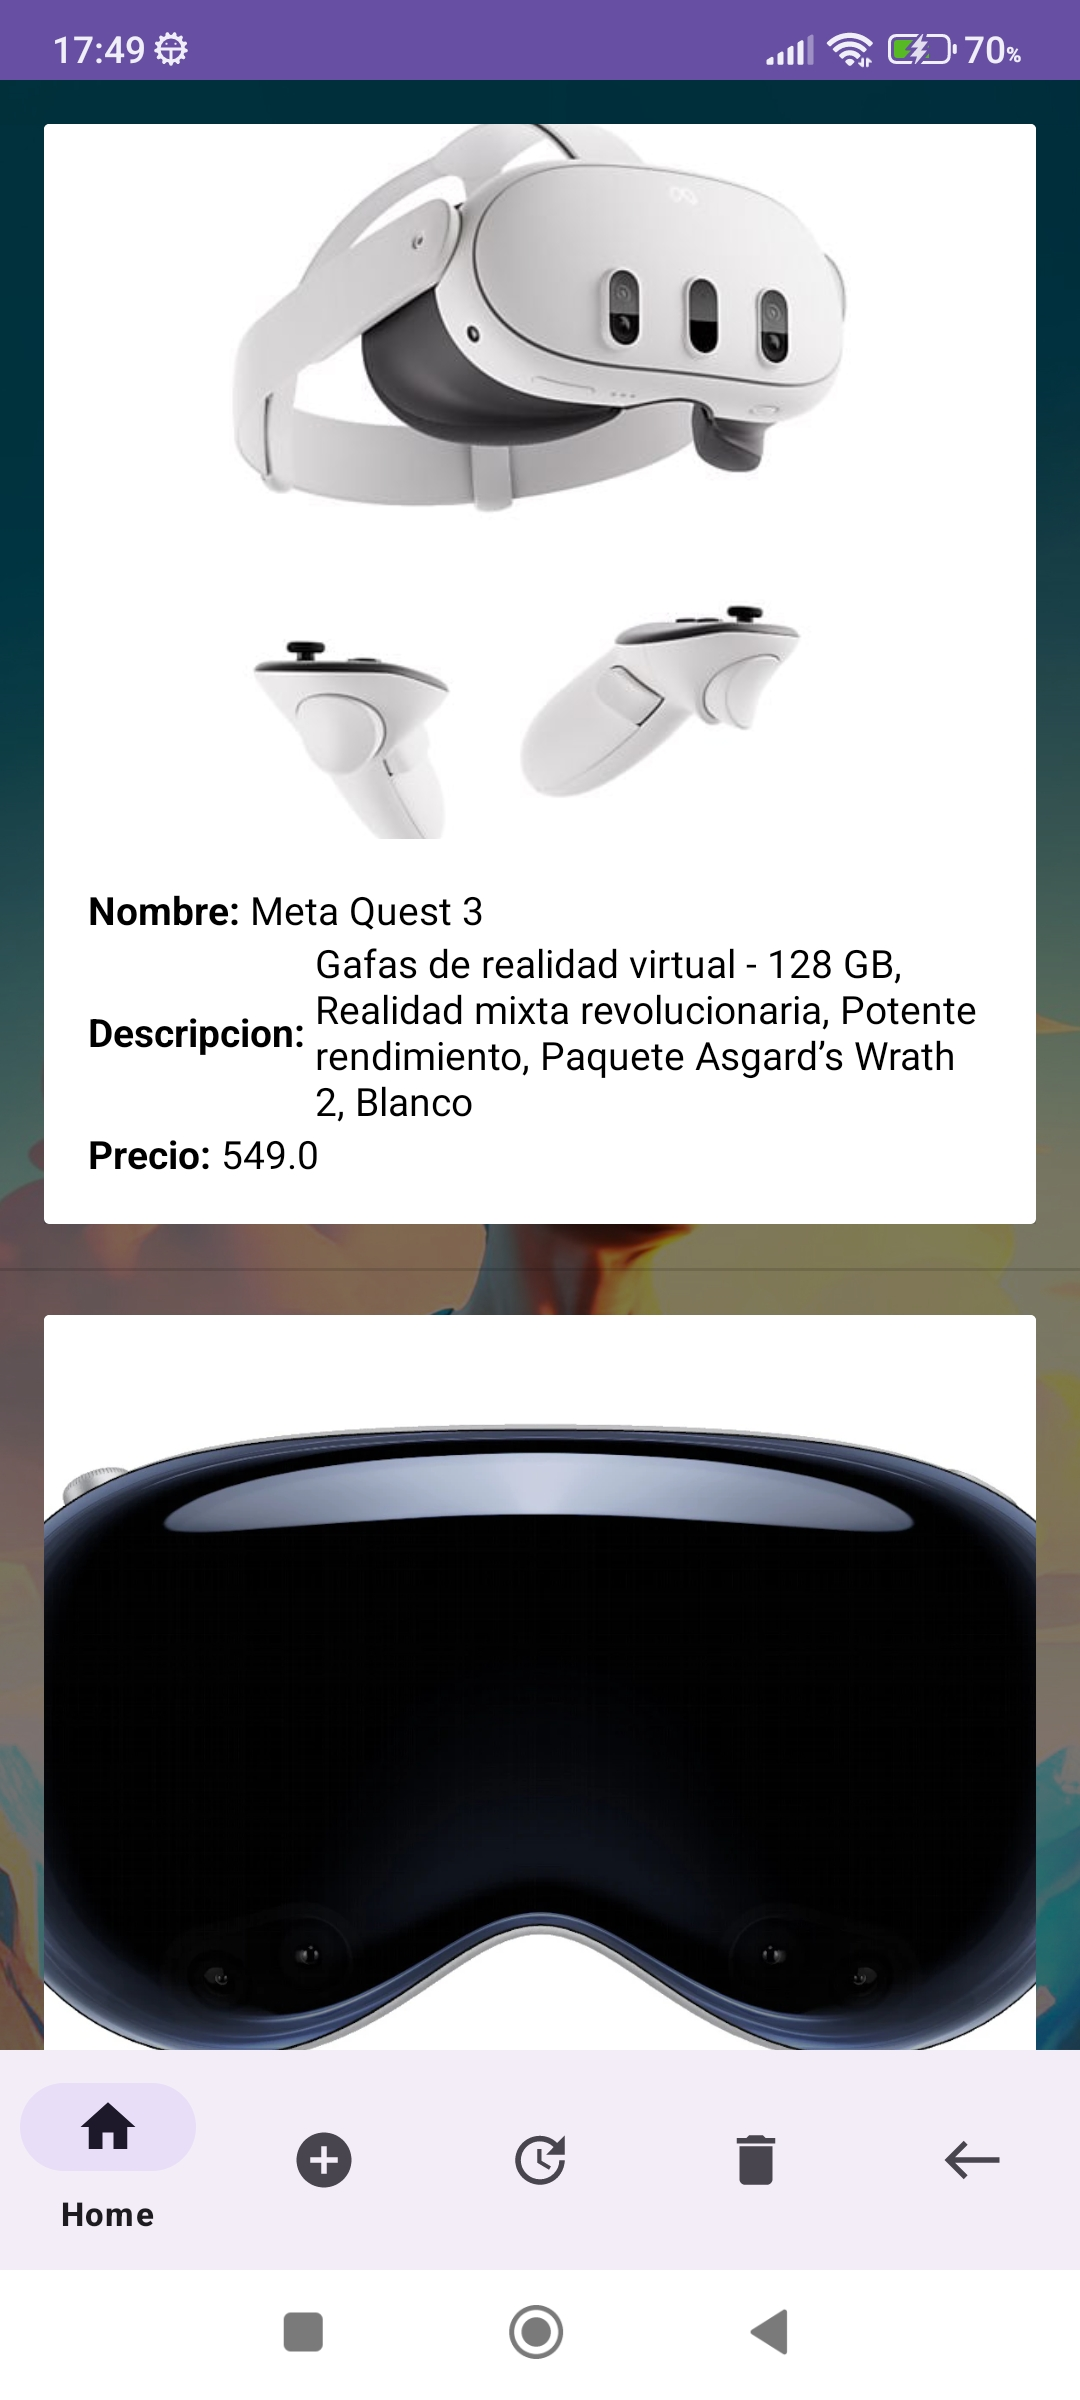
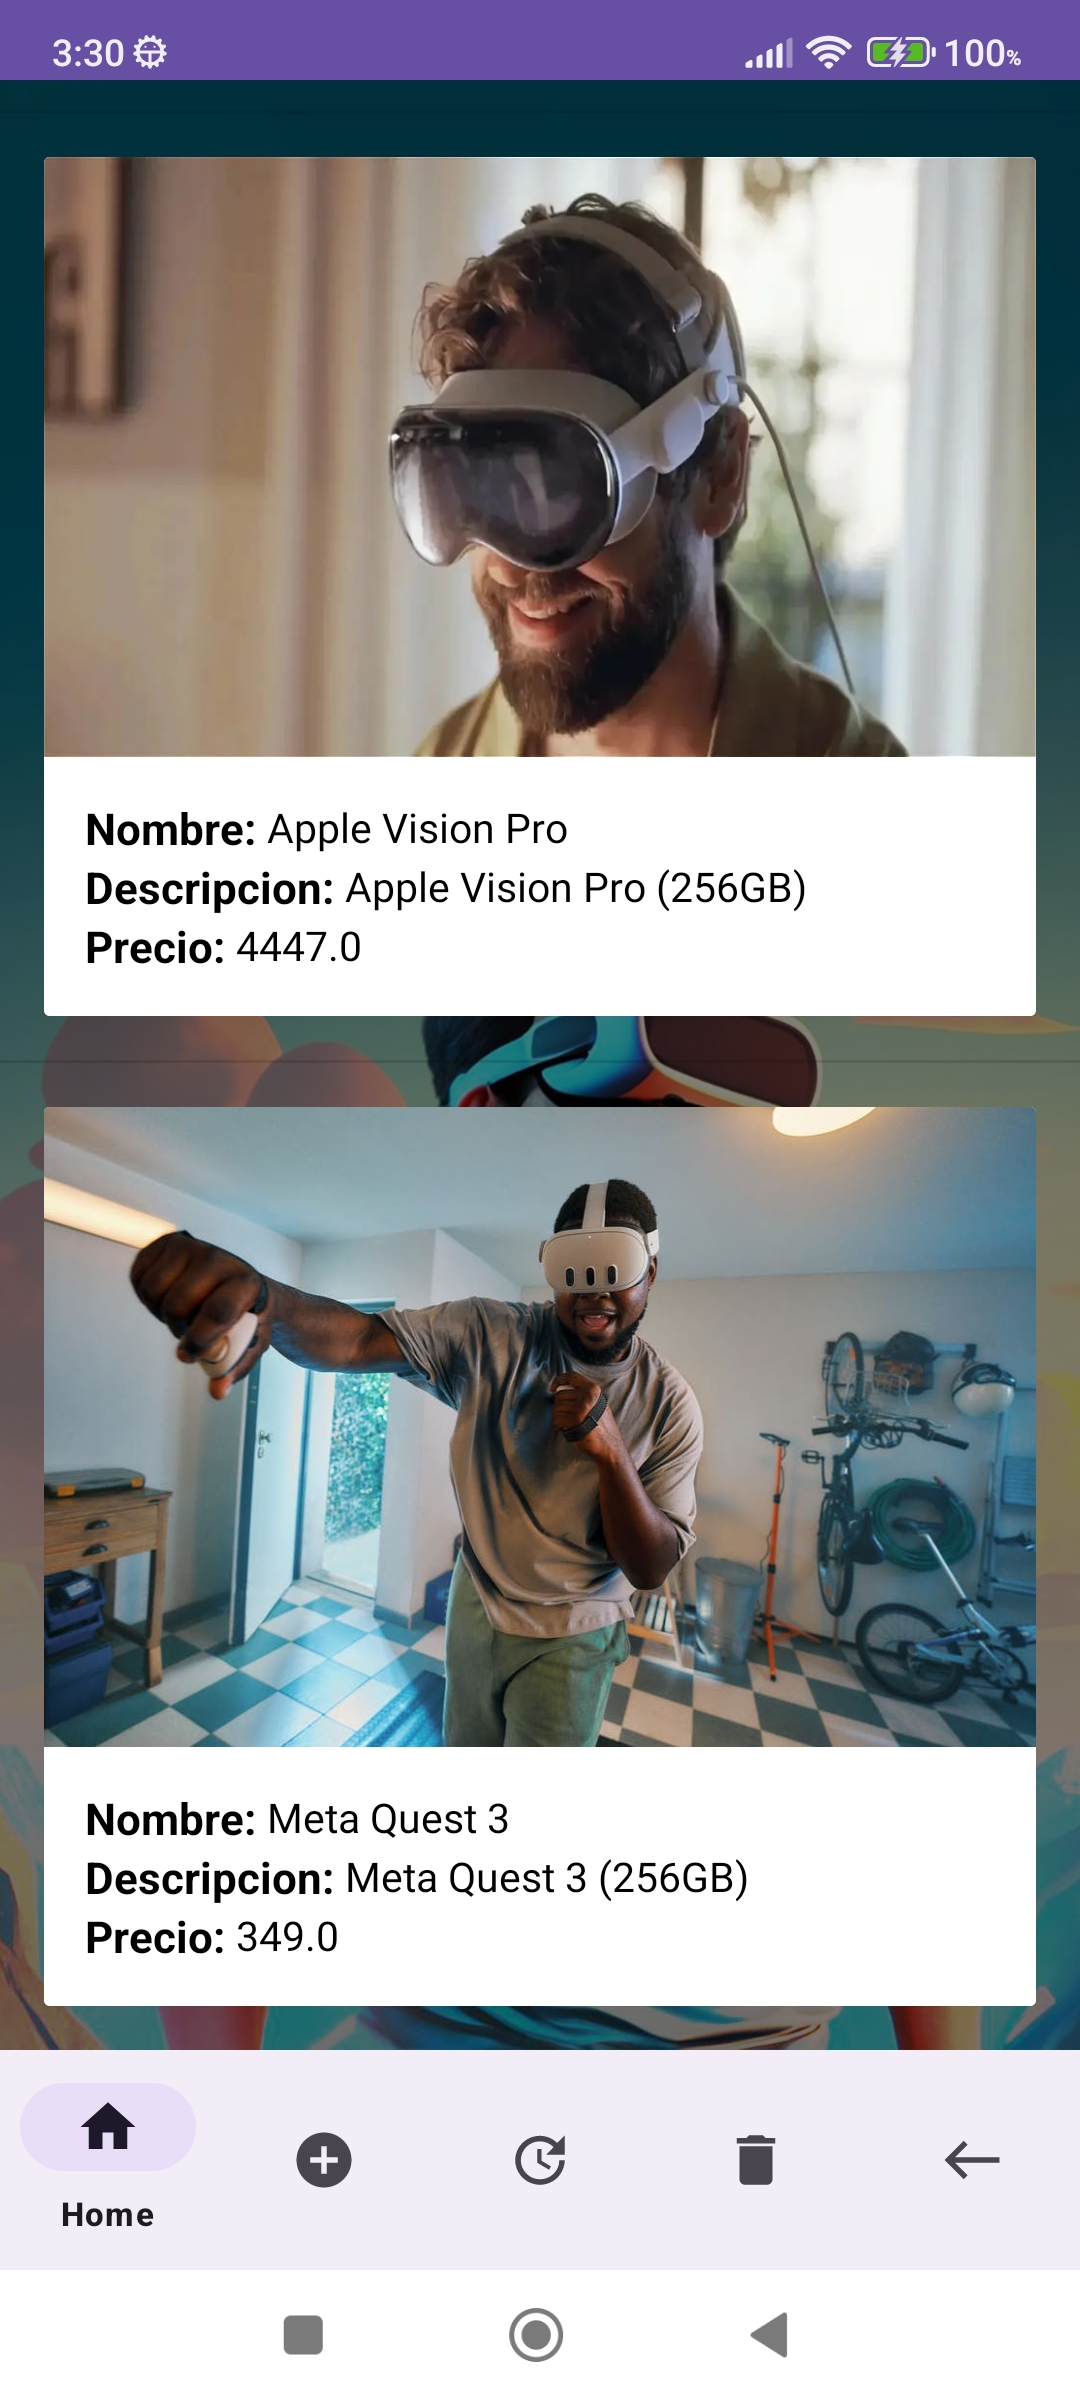
update 3.1

diff --git a/ApiRestRaptureAR/src/main/java/com/app/arrapture/controller/ProductController.java b/ApiRestRaptureAR/src/main/java/com/app/arrapture/controller/ProductController.java
@@ -20,9 +20,10 @@ public class ProductController {
 
     /** Lista de productos */
     private final List<Product> products = new ArrayList<>(Arrays.asList(
-            new Product(1, "Meta Quest 3","Gafas de realidad virtual - 128 GB, Realidad mixta revolucionaria, Potente rendimiento, Paquete Asgard’s Wrath 2, Blanco", 549, "https://assets.mmsrg.com/isr/166325/c1/-/ASSET_MMS_123786881?x=600&y=450&format=jpg&quality=80&sp=yes&strip=yes&trim&ex=600&ey=450&align=center&resizesource&unsharp=1.5x1+0.7+0.02&cox=0&coy=0&cdx=600&cdy=450"),
-            new Product(2, "Apple Vision Pro","Apple Vision Pro (256GB)", 4447, "https://images.stockx.com/images/Apple-Vision-Pro.jpg?fit=fill&bg=FFFFFF&w=700&h=500&fm=webp&auto=compress&q=90&dpr=2&trim=color&updated_at=1686069484?height=78&width=78"),
-            new Product(3, "PLAYSTATION VR","Gafas de PlayStation VR para PlayStation 4 y descubrirás una ventana a nuevas realidades.", 179, "https://media.game.es/COVERV2/3D_L/125/125227.png")
+            new Product(1, "Apple Vision Pro","Apple Vision Pro (256GB)", 4447, "https://store.bananacomputer.com/cmsAdmin/uploads/o_1hkrdkvd11v9pn251s8gn6ggrca.jpg"),
+            new Product(2, "Meta Quest 3","Meta Quest 3 (128GB)", 349, "https://media.cnn.com/api/v1/images/stellar/prod/meta-quest-3-accessories-lead-cnnu.jpg?c=original"),
+            new Product(3, "Apple Vision Pro","Apple Vision Pro (256GB)", 4447, "https://www.lavanguardia.com/andro4all/hero/2023/07/apple-vision-pro.1688731771.6856.jpg?width=1200"),
+            new Product(4, "Meta Quest 3","Meta Quest 3 (256GB)", 349, "https://static.standard.co.uk/2023/09/26/11/newFile-17.jpg?crop=8:5,smart&quality=75&auto=webp&width=1024")
     ));
 
     /**
